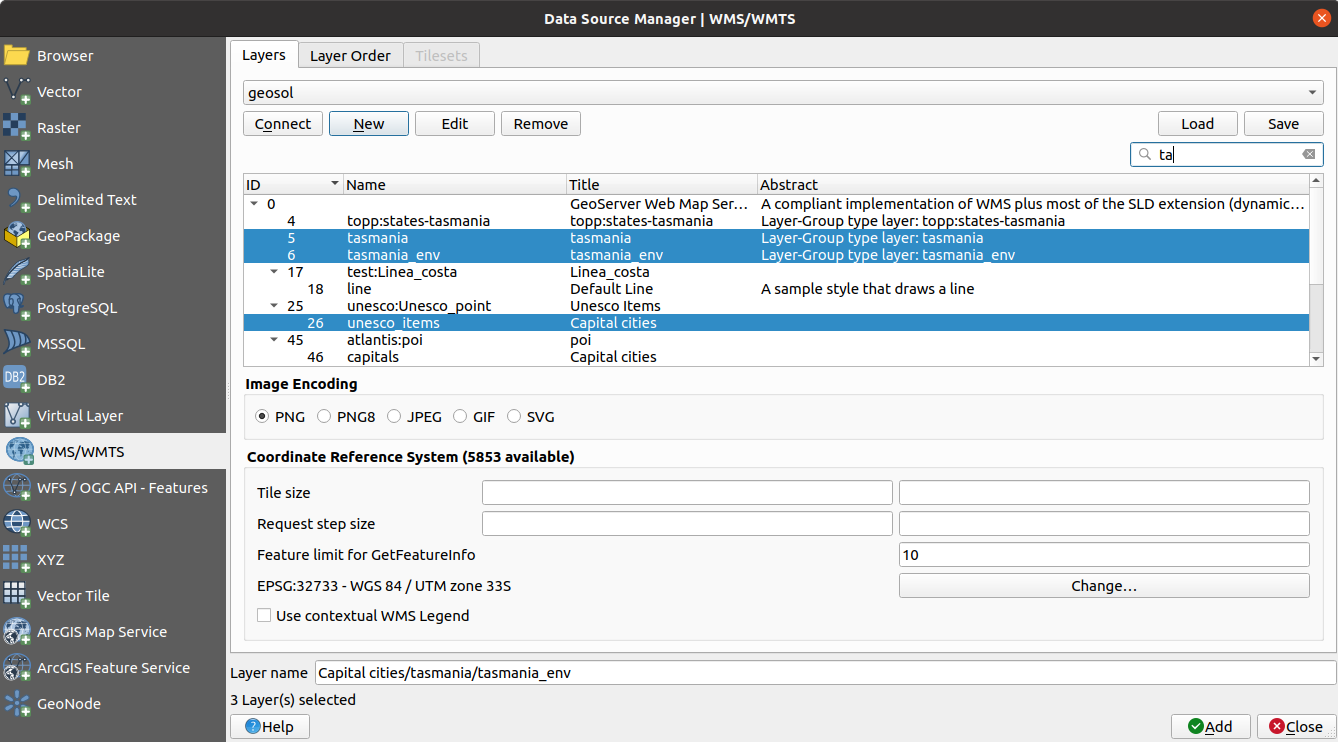
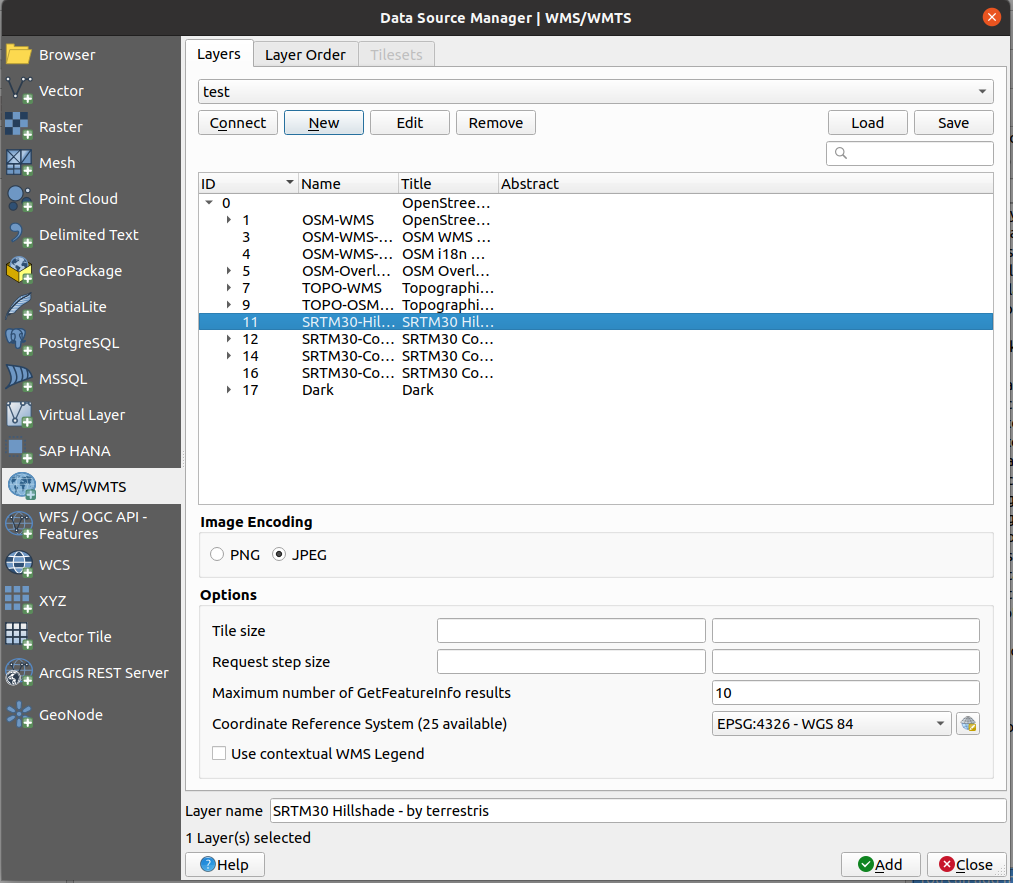
Fixed issue - Update the Add WM(T)S layers dialog (Request in QGIS) #6339 - changed image and documentation to reflect changes

Changed region(s): [[0.0, 0.0, 1.0, 1.0], [0.4896, 0.186, 0.5508, 0.217]]

diff --git a/docs/user_manual/working_with_ogc/ogc_client_support.rst b/docs/user_manual/working_with_ogc/ogc_client_support.rst
@@ -357,8 +357,7 @@ A coordinate reference system (CRS) is the OGC terminology for a QGIS projection
 
 Each WMS layer can be presented in multiple CRSs, depending on the capability of
 the WMS server.
-
-To choose a CRS, select :guilabel:`Change...` and a dialog similar to
+To choose a CRS, click |setProjection| :sup:`Select CRS` widget. A dialog similar to
 the one shown in :numref:`figure_projection_custom` will appear.
 The main difference with the WMS version of the dialog is that only
 those CRSs supported by the WMS server will be shown.
@@ -732,6 +731,8 @@ features and view the attribute table.
 .. |kde| image:: /static/common/kde.png
    :width: 1.5em
 .. |search| image:: /static/common/search.png
+   :width: 1.5em
+.. |setProjection| image:: /static/common/mActionSetProjection.png
    :width: 1.5em
 .. |selectString| image:: /static/common/selectstring.png
    :width: 2.5em
